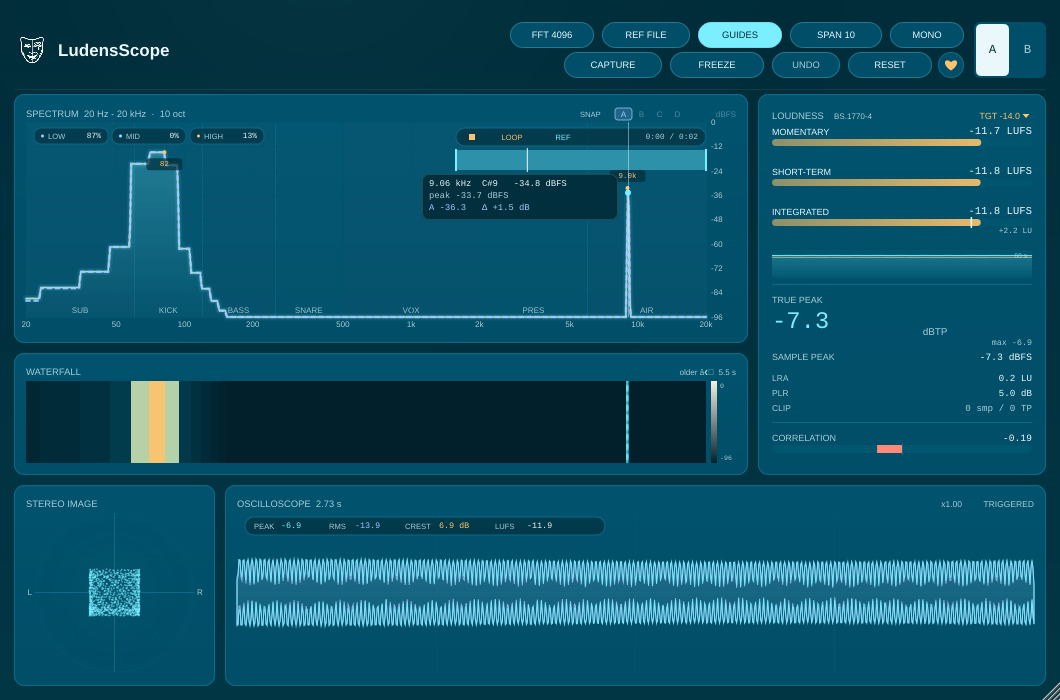
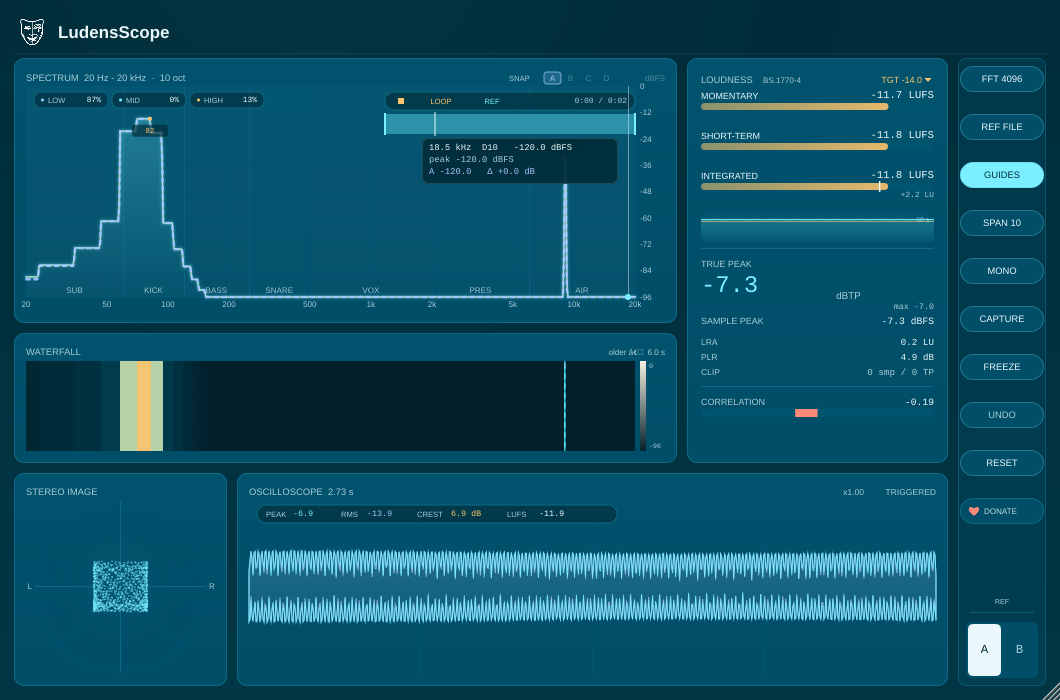
ui: move the controls into a right-hand rail
All header buttons now live in a vertical rail at the right edge:
FFT, REF FILE, GUIDES, SPAN, MONO, CAPTURE, FREEZE, UNDO, RESET and
DONATE (the tenth, with a red heart). The reference A/B block sits at
the bottom of the rail under a REF divider, and the loudness panel moves
left to make room. The rail background, a REF caption and the dynamic
button spacing keep the column balanced at different window heights.
The header is back to just the logo and wordmark.

diff --git a/Source/PluginEditor.cpp b/Source/PluginEditor.cpp
@@ -137,9 +137,10 @@ void DonateButton::paintButton (juce::Graphics& g, bool isMouseOver, bool isMous
     g.setColour (theme::panelLine);
     g.drawRoundedRectangle (bounds.reduced (0.5f), bounds.getHeight() * 0.5f, 1.0f);
 
-    const float cx = bounds.getCentreX();
+    const float cx = bounds.getWidth() > 40.0f ? bounds.getX() + 14.0f
+                                                : bounds.getCentreX();
     const float cy = bounds.getCentreY();
-    const float s = 6.5f;
+    const float s = bounds.getWidth() > 40.0f ? 5.5f : 6.5f;
 
     juce::Path heart;
     heart.startNewSubPath (cx, cy + s * 0.85f);
@@ -151,8 +152,16 @@ void DonateButton::paintButton (juce::Graphics& g, bool isMouseOver, bool isMous
                    cx, cy + s * 0.85f);
     heart.closeSubPath();
 
-    g.setColour (isMouseOver ? theme::accent2.brighter (0.2f) : theme::accent2);
+    g.setColour (isMouseOver ? theme::hot.brighter (0.15f) : theme::hot);
     g.fillPath (heart);
+
+    if (bounds.getWidth() > 40.0f)
+    {
+        g.setColour (isMouseOver ? theme::text : theme::text.withAlpha (0.85f));
+        g.setFont (theme::labelFont (9.0f));
+        g.drawText ("DONATE", bounds.withTrimmedLeft (24.0f),
+                    juce::Justification::centredLeft);
+    }
 }
 
 LudensScopeEditor::LudensScopeEditor (LudensScopeProcessor& p)
@@ -167,7 +176,7 @@ LudensScopeEditor::LudensScopeEditor (LudensScopeProcessor& p)
                                                  BinaryData::ludens_logo_pngSize);
     tooltipWindow = std::make_unique<juce::TooltipWindow> (this, 700);
     setResizable (true, true);
-    setResizeLimits (1060, 660, 2400, 1500);
+    setResizeLimits (1060, 600, 2400, 1500);
 
     addAndMakeVisible (spectrumView);
     addAndMakeVisible (spectrogramView);
@@ -344,7 +353,23 @@ void LudensScopeEditor::paint (juce::Graphics& g)
     g.setGradientFill (glow);
     g.fillAll();
 
-    auto header = getLocalBounds().reduced (14).removeFromTop (72);
+    if (! railBounds.isEmpty())
+    {
+        g.setColour (theme::panel.withAlpha (0.35f));
+        g.fillRoundedRectangle (railBounds.toFloat(), 8.0f);
+        g.setColour (theme::panelLine.withAlpha (0.6f));
+        g.drawRoundedRectangle (railBounds.toFloat().reduced (0.5f), 8.0f, 1.0f);
+
+        const int abTop = railBounds.getBottom() - 8 - 56;
+        g.setColour (theme::panelLine.withAlpha (0.8f));
+        g.fillRect (railBounds.getX() + 12, abTop - 10, railBounds.getWidth() - 24, 1);
+        g.setFont (theme::labelFont (8.0f));
+        g.setColour (theme::textDim);
+        g.drawText ("REF", railBounds.getX(), abTop - 26, railBounds.getWidth(), 12,
+                    juce::Justification::centred);
+    }
+
+    auto header = getLocalBounds().reduced (14).removeFromTop (36);
 
     auto brand = header.removeFromLeft (196);
 
@@ -367,7 +392,7 @@ void LudensScopeEditor::paint (juce::Graphics& g)
     }
 
     g.setColour (juce::Colour (0x12ffffff));
-    g.fillRect (14, 89, getWidth() - 28, 1);
+    g.fillRect (14, 53, getWidth() - 28, 1);
 
     if (fileDragActive)
     {
@@ -383,40 +408,39 @@ void LudensScopeEditor::paint (juce::Graphics& g)
 void LudensScopeEditor::resized()
 {
     auto r = getLocalBounds().reduced (14);
-    auto header = r.removeFromTop (72);
-
-    auto rows = header;
-    rows.removeFromTop (8);
-    rows.removeFromBottom (8);
-
-    slotSwitch.setBounds (rows.removeFromRight (72));
-    rows.removeFromRight (10);
-
-    auto row1 = rows.removeFromTop (26);
-    rows.removeFromTop (4);
-    auto row2 = rows.removeFromTop (26);
-
-    monoButton.setBounds (row1.removeFromRight (74).withSizeKeepingCentre (74, 26));
-    row1.removeFromRight (8);
-    spanButton.setBounds (row1.removeFromRight (92).withSizeKeepingCentre (92, 26));
-    row1.removeFromRight (8);
-    guidesButton.setBounds (row1.removeFromRight (84).withSizeKeepingCentre (84, 26));
-    row1.removeFromRight (8);
-    referenceButton.setBounds (row1.removeFromRight (88).withSizeKeepingCentre (88, 26));
-    row1.removeFromRight (8);
-    fftButton.setBounds (row1.removeFromRight (84).withSizeKeepingCentre (84, 26));
-
-    donateButton.setBounds (row2.removeFromRight (26).withSizeKeepingCentre (26, 26));
-    row2.removeFromRight (6);
-    resetButton.setBounds (row2.removeFromRight (84).withSizeKeepingCentre (84, 26));
-    row2.removeFromRight (8);
-    undoButton.setBounds (row2.removeFromRight (68).withSizeKeepingCentre (68, 26));
-    row2.removeFromRight (8);
-    freezeButton.setBounds (row2.removeFromRight (94).withSizeKeepingCentre (94, 26));
-    row2.removeFromRight (8);
-    captureButton.setBounds (row2.removeFromRight (98).withSizeKeepingCentre (98, 26));
-
+    r.removeFromTop (36);
     r.removeFromTop (8);
+
+    railBounds = r.removeFromRight (88);
+    r.removeFromRight (10);
+
+    auto rail = railBounds.withTrimmedLeft (2).withTrimmedRight (2).withTrimmedTop (8);
+    constexpr int buttonHeight = 26;
+
+    const int refTop = railBounds.getBottom() - 8 - 56 - 34;
+    const int available = juce::jmax (0, refTop - rail.getY());
+    const int buttonGap = juce::jlimit (6, 22, (available - buttonHeight * 10) / 9);
+
+    auto stack = rail.removeFromTop (buttonHeight * 10 + buttonGap * 9);
+
+    const auto placeButton = [&stack, buttonGap] (juce::Component& button)
+    {
+        button.setBounds (stack.removeFromTop (buttonHeight));
+        stack.removeFromTop (buttonGap);
+    };
+
+    placeButton (fftButton);
+    placeButton (referenceButton);
+    placeButton (guidesButton);
+    placeButton (spanButton);
+    placeButton (monoButton);
+    placeButton (captureButton);
+    placeButton (freezeButton);
+    placeButton (undoButton);
+    placeButton (resetButton);
+    placeButton (donateButton);
+
+    slotSwitch.setBounds (railBounds.getX() + 8, railBounds.getBottom() - 8 - 56, 72, 56);
 
     constexpr int gap = 10;
     const int bottomHeight = juce::jlimit (150, 230, (int) ((float) r.getHeight() * 0.34f));

diff --git a/Source/PluginEditor.h b/Source/PluginEditor.h
@@ -127,6 +127,7 @@ private:
     DonateButton donateButton;
     ReferenceSlotSwitch slotSwitch;
     juce::Image logoImage;
+    juce::Rectangle<int> railBounds;
     juce::TextButton captureButton { "CAPTURE" };
     juce::TextButton monoButton { "MONO" };
     juce::TextButton spanButton { "SPAN 10" };

diff --git a/README.md b/README.md
@@ -110,7 +110,7 @@ cmake --build --preset dev -j$(nproc)
    плагина). Усреднённая кривая рисуется серым; на спектре появляется транспорт
    (play/stop, `LOOP`, `REF/MIX`, время) и полоса перемотки: клик перематывает,
    перетаскивание задаёт loop-диапазон, его края двигаются отдельно; на полосе
-   рисуется волна файла. Референсов два слота — блок `A/B` справа в шапке;
+   рисуется волна файла. Референсов два слота — блок `A/B` внизу правой колонки кнопок;
    переключение мгновенное (аудио кэшируется в памяти), путь, кривая, LUFS и
    петля хранятся в проекте. Громкость референса подгоняется под текущий
    integrated микса. При открытии проекта файл подгружается заново, а если он

diff --git a/README.en.md b/README.en.md
@@ -110,8 +110,8 @@ cmake --build --preset dev -j$(nproc)
    window). The averaged curve is drawn in grey; a transport appears on the
    spectrum (play/stop, `LOOP`, `REF/MIX`, time) with a seek bar: click to seek,
    drag to select a loop range, drag its edges separately; the file waveform is
-   drawn on the bar. There are two reference slots — the `A/B` block on the
-   right of the header; switching is instant (audio is cached in memory), and
+   drawn on the bar. There are two reference slots — the `A/B` block at the
+   bottom of the right rail; switching is instant (audio is cached in memory), and
    the path, curve, LUFS and loop are stored in the project. The reference gain
    is matched to the current integrated loudness of the mix. On project open the
    file is reloaded; if it is missing, the curve remains for comparison. Files
